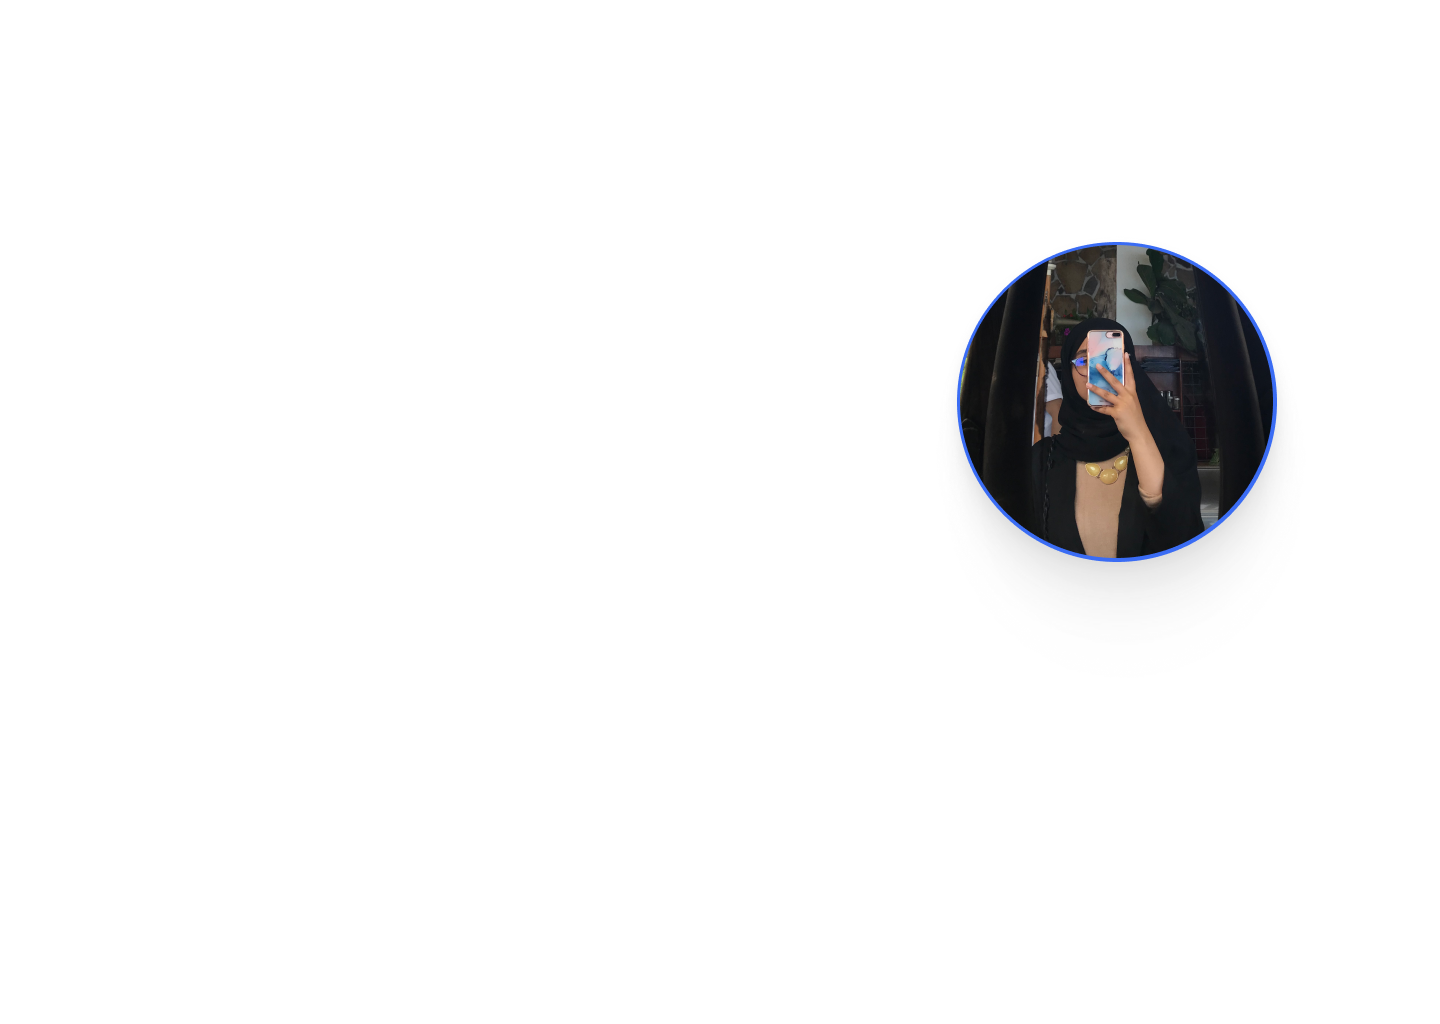
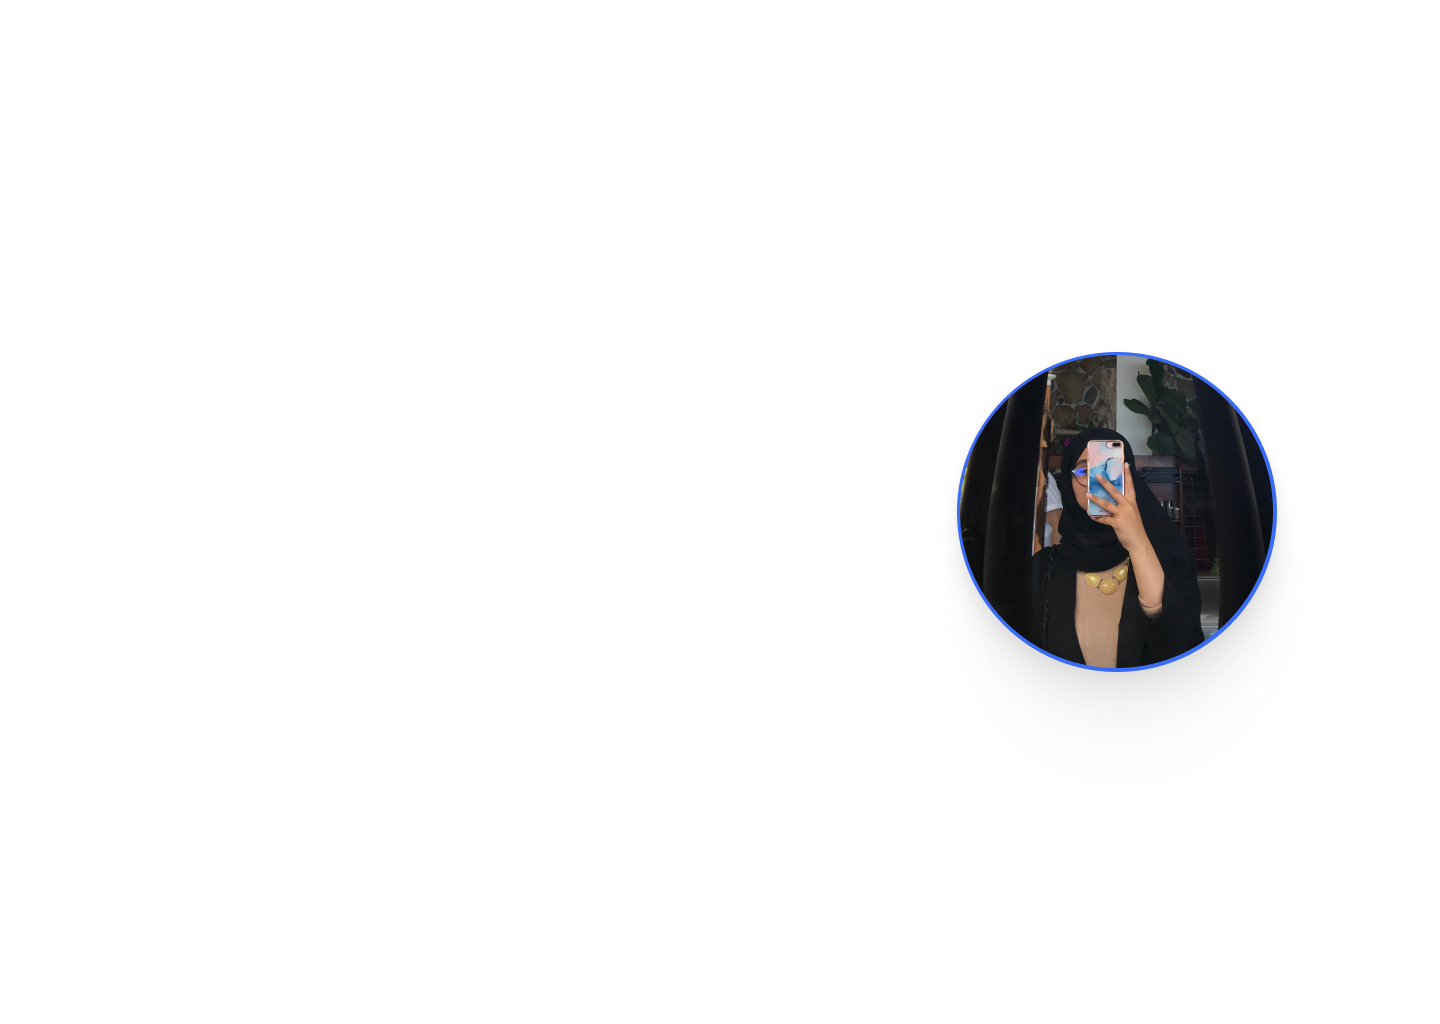
i finished the hero section

Changed region(s): [[0.6562, 0.2188, 0.9062, 0.6875]]

diff --git a/style.css b/style.css
@@ -39,15 +39,71 @@ header{
     color: #601cfc;
 }
 
-section{
+section
+{
     padding: 100px 200px;
 }
 
-.main {
+.main 
+{
     width: 100%;
     min-height: 100vh;
     display: flex;
     align-items: center;
-    background: url(images/last.png) no-repeat;
+    background: url(images/final.png) no-repeat;
     background-size: cover;
+    background-position: center;
+}
+
+.main h2
+{
+    color: #1f1f1f;
+    font-size: 1.4em;
+    font-weight: 500;
+}
+
+.main h2 span
+{
+    display: inline-block;
+    margin-top: 10px;
+    color:#3a6cf4;
+    font-size: 3em;
+    font-weight: 500;
+}
+
+.main h3{
+    color: #1f1f1f;
+    font-size: 2em;
+    font-weight: 700;
+    letter-spacing: 1px;
+    margin-top: 10px;
+    margin-bottom: 30px;
+}
+
+.main-btn
+{
+    color: #f0f0f0;
+    background-color: #3a6cf4;
+    text-decoration: none;
+    font-size: 1.1em;
+    font-weight: 600;
+    display: inline-block;
+    padding: 0.9375em 2.1875em;
+    letter-spacing: 1px;
+    border-radius:15px;
+    margin-bottom: 40px;
+    transition: 0.7s ease; /*to have a smooth effect while hovering*/
+}
+
+.main-btn:hover{
+    background-color: #0a49f6;
+    transform: scale(1.1,1.1); /*as kabarto 10% , when i put one value it means its for the x and y*/
+}
+
+.social-icons a
+{
+    color: #1f1f1f;
+    font-size:1.7em;
+    padding-right: 30px;
+
 }

diff --git a/index.html b/index.html
@@ -25,10 +25,10 @@
             <h3>I create amazing designs</h3>
             <a href="#projects" class="main-btn">View my work</a>
             <div class="social-icons">
-                <a href="#"><i class="fa-brands fa-linkedin-in"></i></a>
-                <a href="#"><i class="fa-brands fa-instagram"></i></a>
-                <a href="#"><i class="fa-brands fa-dribbble"></i></a>
-                <a href="#"><i class="fa-brands fa-behance"></i></a>
+                <a href="#"><i class="fab fa-linkedin-in"></i></a>
+                <a href="#"><i class="fab fa-instagram"></i></a>
+                <a href="#"><i class="fab fa-dribbble"></i></a>
+                <a href="#"><i class="fab fa-github"></i></a>
             </div>
         </div>
     </section>
